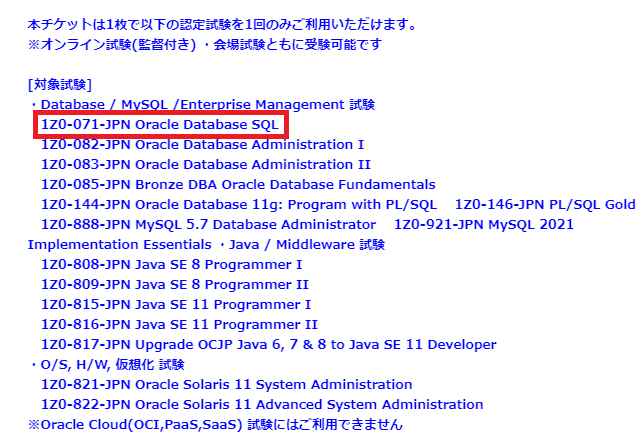
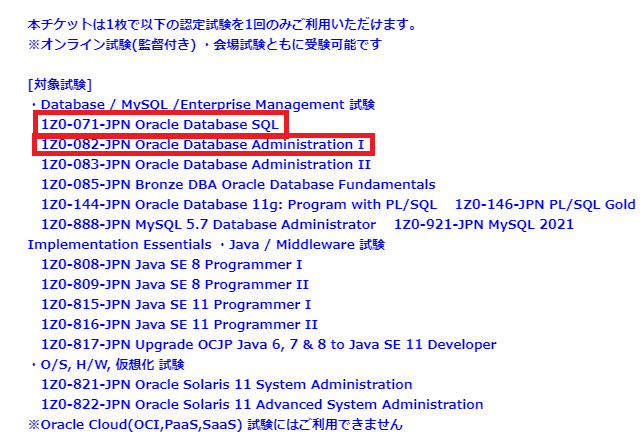
update oraclemastersilver-sql-application.md

Changed region(s): [[0.0311, 0.2915, 0.5901, 0.3498]]

diff --git a/content/post/2023-03/oraclemastersilver-sql-application.md b/content/post/2023-03/oraclemastersilver-sql-application.md
@@ -1,9 +1,7 @@
 ---
-title: 【Oracle MASTER Silver SQL】試験の申し込みを格安で行う方法
-description: 今回はOracle MASTER Silver SQL（1Z0-071-JPN）の試験を割引価格で申し込む方法と試験結果を確認する方法についてまとめていきます。受験形式はテストセンターでのCBT方式の受験を想定しています。
-
+title: 【Oracle MASTER Silver DBA/SQL】試験の申し込みを格安で行う方法
+description: 今回はOracle MASTER Silver DBA（1Z0-082-JPN）/SQL（1Z0-071-JPN）の試験を割引価格で申し込む方法と試験結果を確認する方法についてまとめていきます。受験形式はテストセンターでのCBT方式の受験を想定しています。
 date: 2023-03-05
-lastmod: 2023-10-24
 categories: 
   - IT資格
 tags: 
@@ -11,10 +9,9 @@ tags:
 archives: 
   - 2023/03
 thumbnail: /images/oracle.png
-# draft: false
 ---
 
-今回は**Oracle MASTER Silver SQL**（1Z0-071-JPN）の試験を割引価格で申し込む方法と試験結果を確認する方法についてまとめていきます。受験形式はテストセンターでのCBT方式の受験を想定しています。
+今回は**Oracle MASTER Silver** DBA（1Z0-082-JPN）/SQL（1Z0-071-JPN）の試験を割引価格で申し込む方法と試験結果を確認する方法についてまとめていきます。受験形式はテストセンターでのCBT方式の受験を想定しています。
 
 {{< box "関連記事" >}}
 <ul>
@@ -35,13 +32,13 @@ thumbnail: /images/oracle.png
 
 ## 楽天市場でチケットの購入をする
 
-試験のチケットはOracleの公式ページからでも購入できますが、**楽天市場**で試験番号「1Z0-071-JPN」に対応している受験チケットを買うと、**2,000円以上安く入手できます**。また、楽天ポイントも結構ついてくるため更にお得です。チケットは下記URLから購入できます。
+試験のチケットはOracleの公式ページからでも購入できますが、**楽天市場**で試験番号「1Z0-082-JPN」もしくは「1Z0-071-JPN」に対応している受験チケットを買うと、**2,000円以上安く入手できます**。また、楽天ポイントも結構ついてくるため更にお得です。チケットは下記URLから購入できます。
 
 * [【ピアソンVUE専用】OracleピアソンVUE配信監督付き試験用受験チケット(電子チケット)](https://af.moshimo.com/af/c/click?a_id=2758487&p_id=54&pc_id=54&pl_id=616&url=https%3A%2F%2Fitem.rakuten.co.jp%2Fit-test%2F137327%2F&m=http%3A%2F%2Fm.rakuten.co.jp%2Fit-test%2Fi%2F10000192%2F)
 
 {{< product_link title="【ピアソンVUE専用】OracleピアソンVUE配信監督付き試験用受験チケット(電子チケット)" image="//thumbnail.image.rakuten.co.jp/@0_mall/it-test/cabinet/bk_ora2.jpg?_ex=300x300" url="//af.moshimo.com/af/c/click?a_id=2758487&p_id=54&pc_id=54&pl_id=616&url=https%3A%2F%2Fitem.rakuten.co.jp%2Fit-test%2F137327%2F&m=http%3A%2F%2Fm.rakuten.co.jp%2Fit-test%2Fi%2F10000192%2F">}}
 
-対象試験「1Z0-071-JPN」に対応しているかを確認しておきましょう。
+対象試験「1Z0-082-JPN」もしくは「1Z0-071-JPN」に対応しているかを確認しておきましょう。
 
 {{< luminous src="/images/oraclemastersilver-sql-application-01.png" caption="楽天市場の商品ページ画面">}}
 
@@ -49,27 +46,29 @@ thumbnail: /images/oracle.png
 
 ## 試験の予約を行う
 
-次に試験の予約を行います。下記URLから予約を行いましょう。今回はスマホのブラウザから予約を行います。
+次に試験の予約を行います。下記URLから予約を行いましょう。今回は「1Z0-071-JPN」の予約を行います。
 
 * [Oracle University | CertView](https://catalog-education.oracle.com/pls/apex/f?p=1010:26:564432523336)
 
 CertViewでは右上メニューから言語を日本語に変更できます。メニューから試験の予約サイトである「ピアソンVUE」へ遷移します。 
 
-{{< luminous src="/images/oraclemastersilver-sql-application-02.jpg" caption="試験の予約方法1">}}
+{{< luminous src="/images/oraclemasterbronze-application-02.png" caption="試験の予約方法1">}}
 
-{{< luminous src="/images/oraclemastersilver-sql-application-03.jpg" caption="試験の予約方法2">}}
+{{< luminous src="/images/oraclemasterbronze-application-03.png" caption="試験の予約方法2">}}
+
+{{< luminous src="/images/oraclemasterbronze-application-04.png" caption="試験の予約方法3">}}
 
 後は、試験の予約から「1Z0-071-JPN」を選択し、日付と場所を選んで、先ほどのメールに記載されたチケット番号を入力することで申し込みが完了します（画像の受験料は受験時の価格になります）。
 
-{{< luminous src="/images/oraclemastersilver-sql-application-04.jpg" caption="試験の予約方法3">}}
+{{< luminous src="/images/oraclemastersilver-sql-application-02.png" caption="試験の予約方法4">}}
 
-{{< luminous src="/images/oraclemastersilver-sql-application-05.jpg" caption="試験の予約方法4">}}
+「**テストセンター**」を選択すると、認定プログラムのポリシーの画面になります。「**同意する**」をクリックしましょう。試験会場の選択画面になります。会場と日時を選択すると受験コードの入力画面になります。ここに先ほどのコード（メールに記載されているチケット番号）を入力しましょう。画像では、受験料は2021年当時の値段になっています。
 
-{{< luminous src="/images/oraclemastersilver-sql-application-06.jpg" caption="試験の予約方法5">}}
+{{< luminous src="/images/javasilver-se11-application-06.png" caption="試験の予約画面5">}}
 
-{{< luminous src="/images/oraclemastersilver-sql-application-07.jpg" caption="試験の予約方法6">}}
+コードを入力後代金の合計が0円になり、このような画面になるのを確認したら「次へ」をクリックします。
 
-{{< luminous src="/images/oraclemastersilver-sql-application-08.jpg" caption="試験の予約方法7">}}
+{{< luminous src="/images/javasilver-se11-application-07.png" caption="試験の予約画面6">}}
 
 ## 試験結果の確認
 
